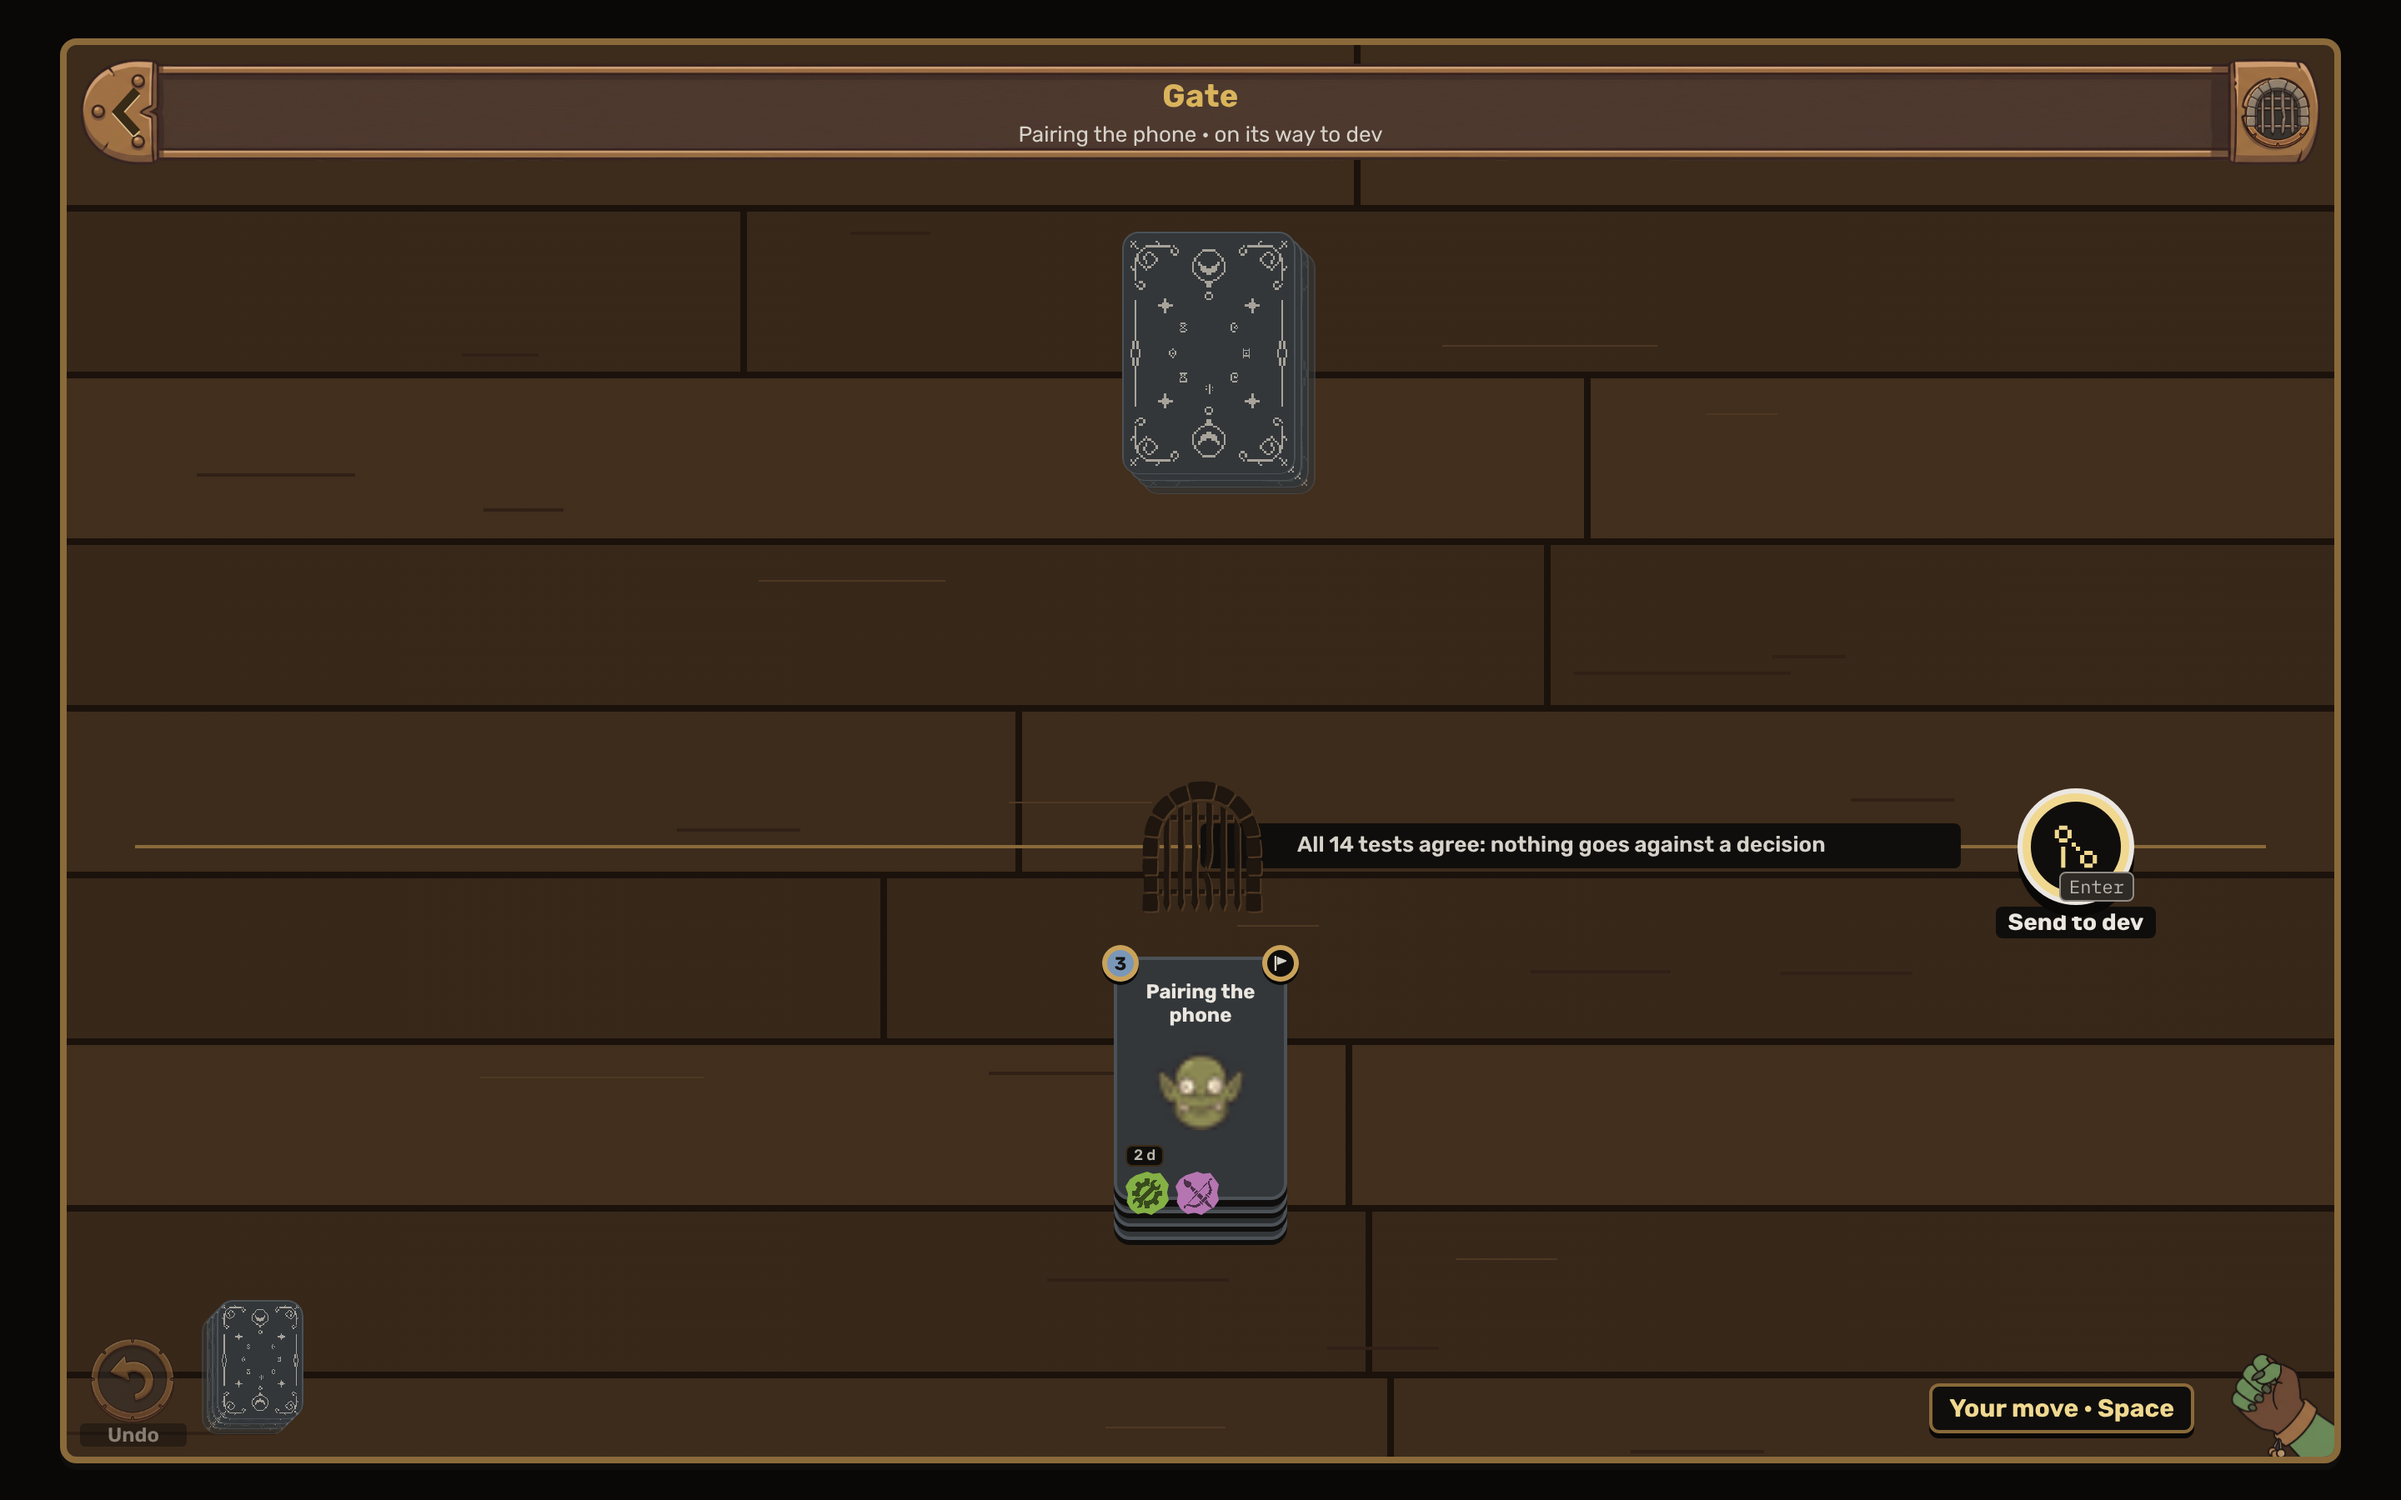
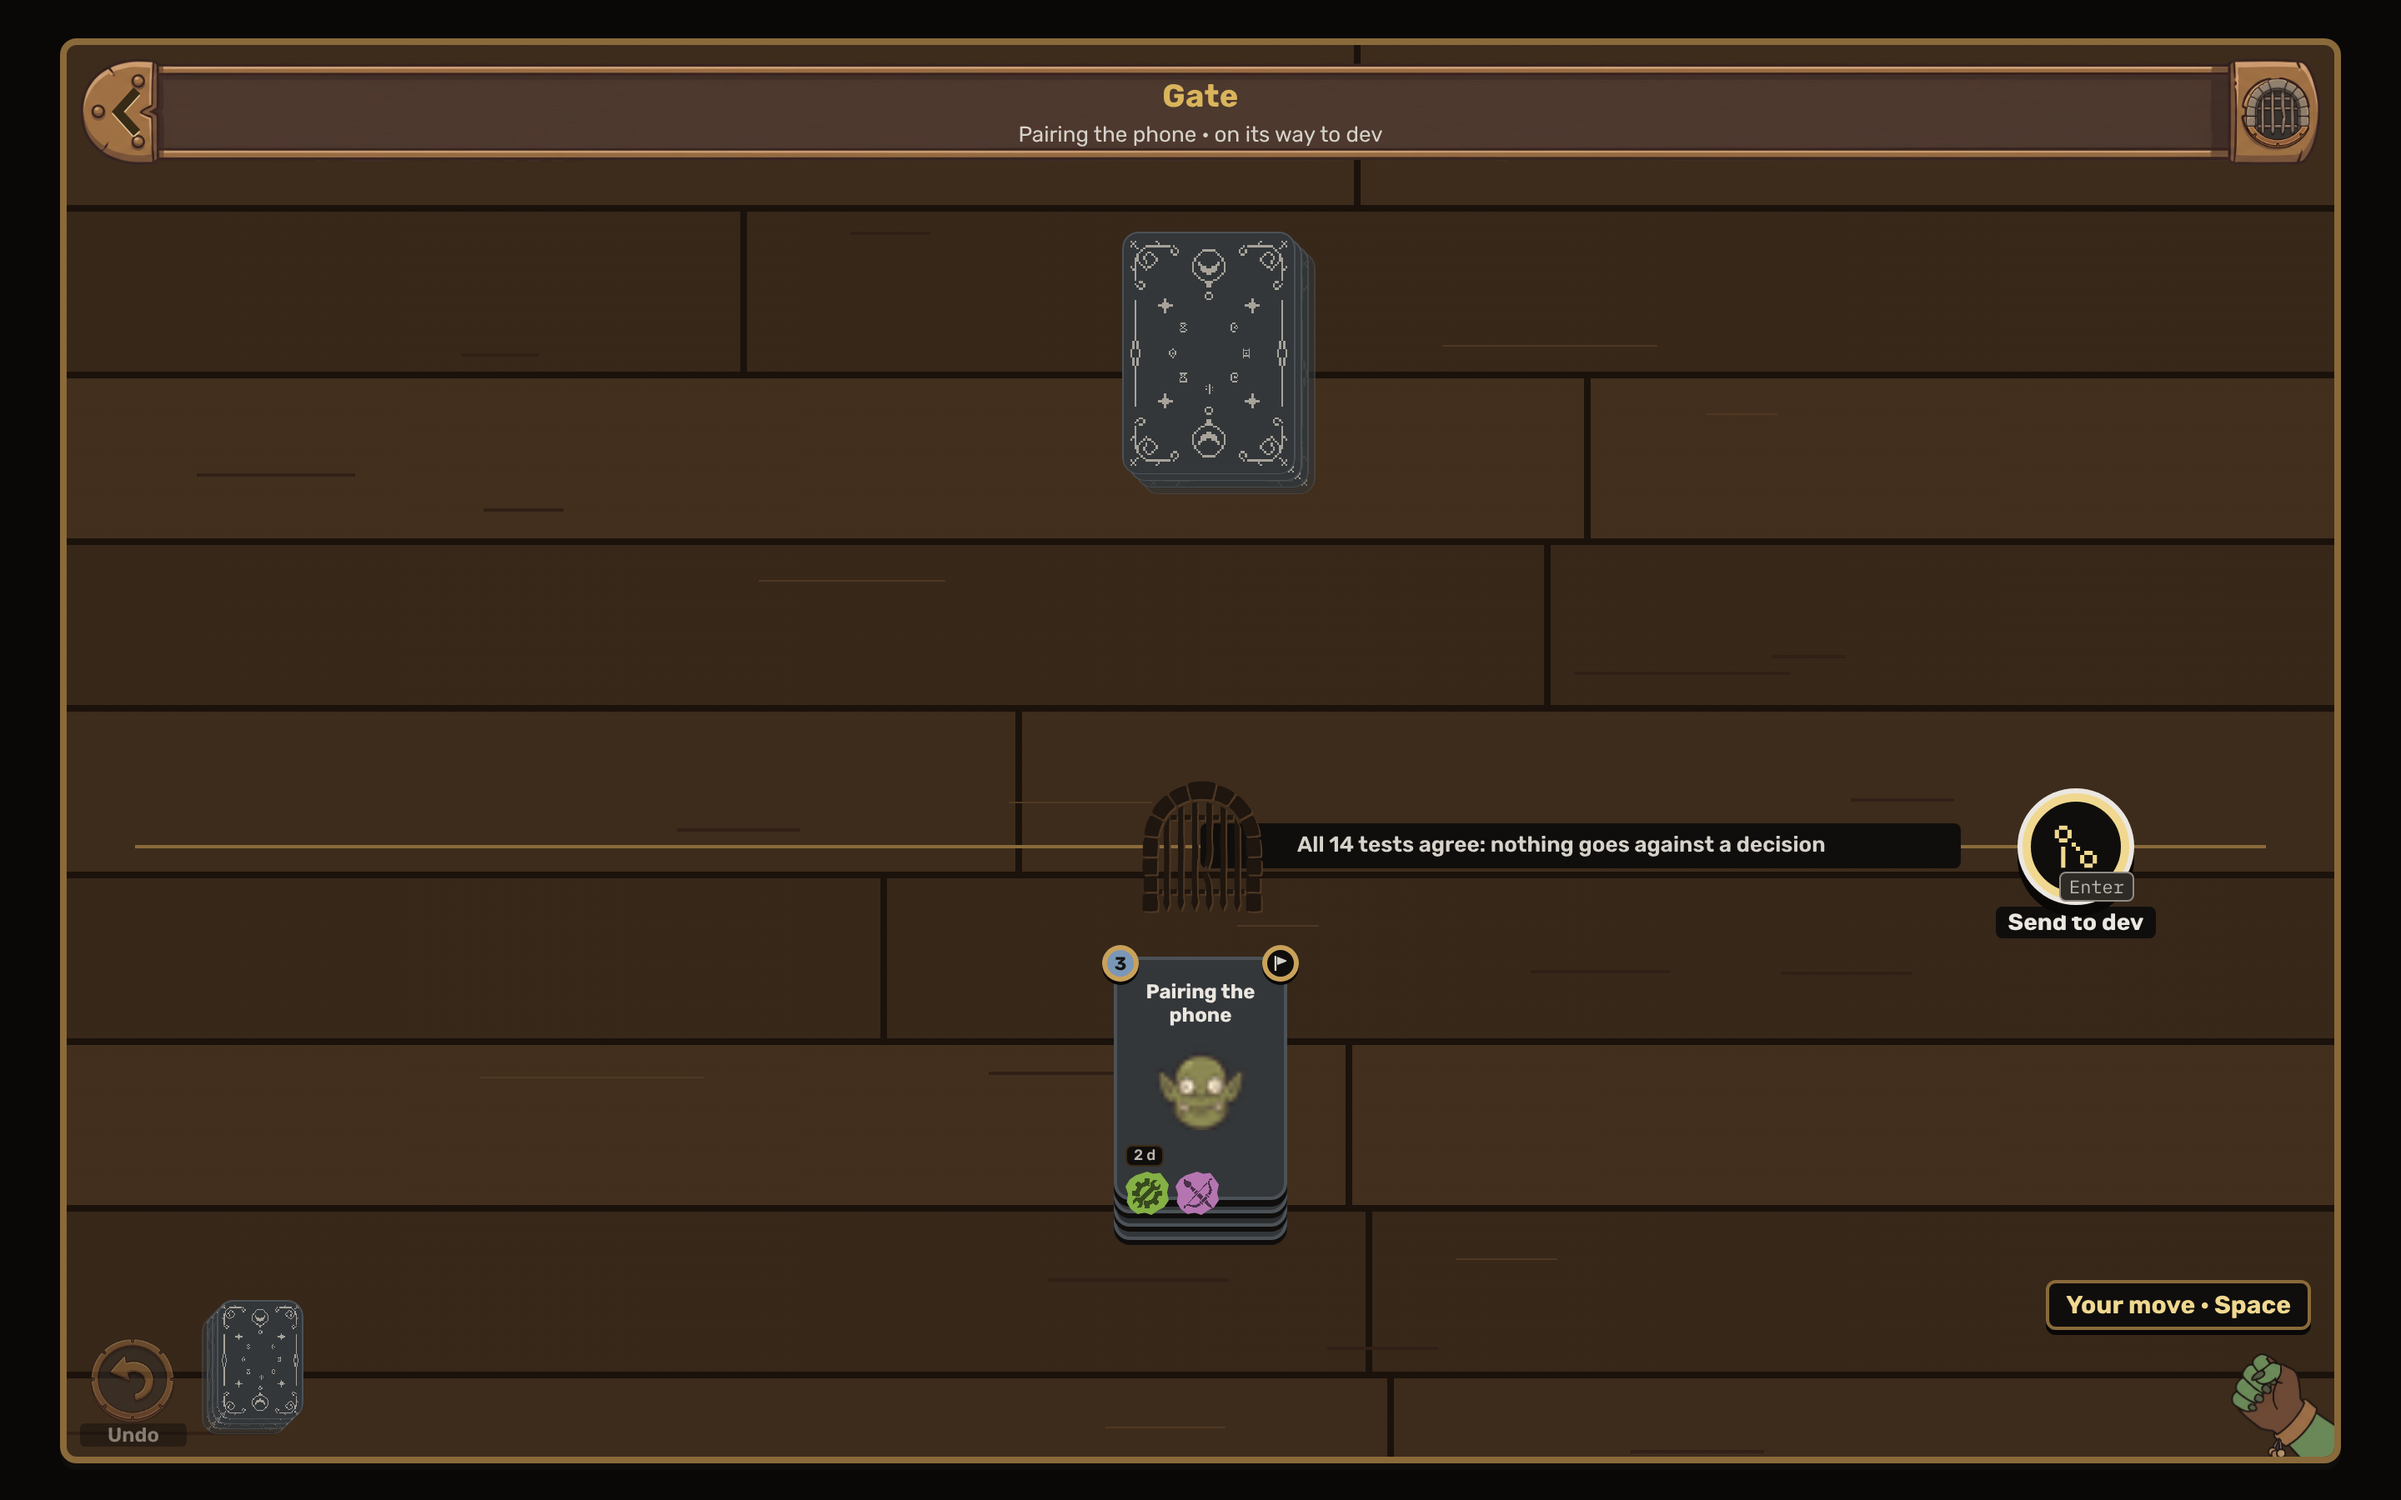
Mat mockups, final polish: Piles, the Backpack, the Battle and the Gate (notes clear of gems and lines, gem gaps, the rolodex's key)
Claude-Session: https://claude.ai/code/session_01MCU3dnmwpxzAdFr5WE7TTZ

Changed region(s): [[0.7812, 0.84, 0.9688, 0.9644]]

diff --git a/docs/mockups/mat-scenes/backpack.html b/docs/mockups/mat-scenes/backpack.html
@@ -505,6 +505,9 @@ body[data-face="phone"] .hdr7 .ttl7 { max-width: calc(100% - 100px); }
 body[data-face="phone"] .row7 { gap: 8px; }
 .dslot .dfront .ktab { display: none; }
 
+body[data-face="desk"] .hl7 { right: 14px; bottom: 76px; }
+body[data-face="desk"][data-hand="fab"] .hl7 { right: 110px; bottom: 14px; }
+
 .field::before { background: url(surfaces/f5-backpack.jpg) 0 0 / 520px 520px; }
 body[data-face="phone"] .field::before { background-size: 330px 330px; }
 .tabs { position: absolute; z-index: 5; top: 122px; left: 0; right: 0; display: flex; justify-content: center; gap: 10px; }

diff --git a/docs/mockups/battle-field/index.html b/docs/mockups/battle-field/index.html
@@ -629,6 +629,9 @@ body[data-face="phone"] .hdr7 .ttl7 { max-width: calc(100% - 100px); }
 body[data-face="phone"] .row7 { gap: 8px; }
 .dslot .dfront .ktab { display: none; }
 
+body[data-face="desk"] .hl7 { right: 14px; bottom: 76px; }
+body[data-face="desk"][data-hand="fab"] .hl7 { right: 110px; bottom: 14px; }
+
 /* ---- v3 battle ---- */
 :root { --ch: 146px; --cw: 104px; }
 body[data-face="phone"] { --ch: 146px; --cw: 104px; }
